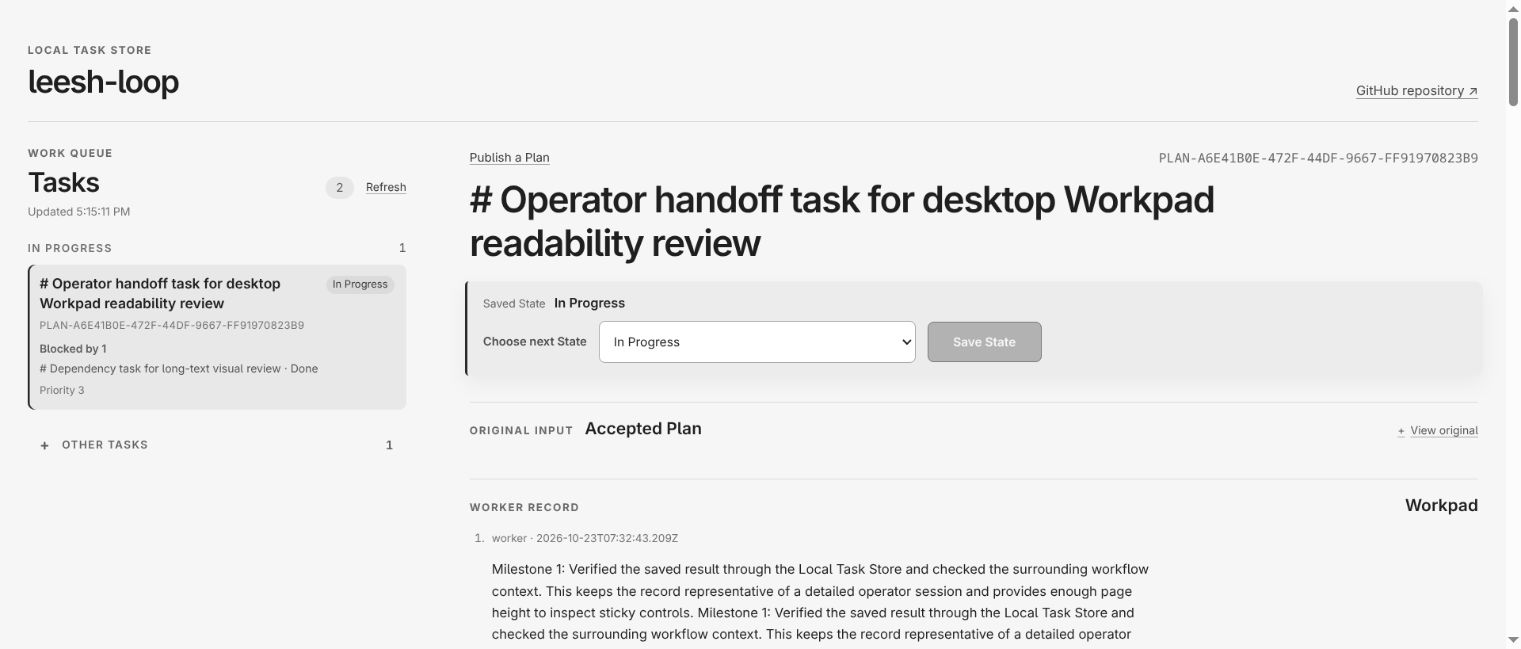
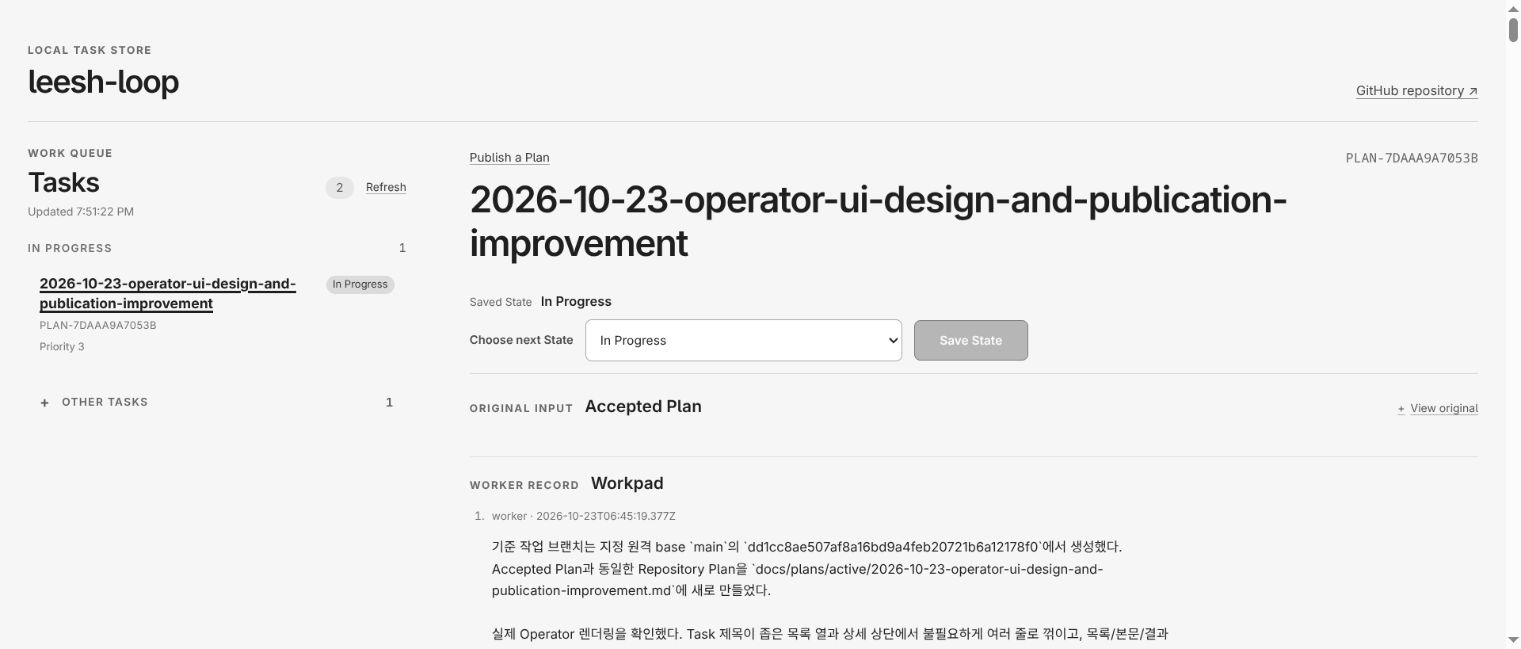
Refine selected task row styling and evidence

diff --git a/operator/ui/src/style.css b/operator/ui/src/style.css
@@ -44,11 +44,14 @@ h3 { margin-bottom: 0; font-size: 1rem; line-height: 1.35; font-weight: 650; }
 .task-group-heading { display: flex; align-items: baseline; justify-content: space-between; gap: 1rem; margin-bottom: .42rem; }
 .task-group-heading h3 { min-width: 0; color: #727272; overflow-wrap: anywhere; font-size: .68rem; letter-spacing: .11em; text-transform: uppercase; }
 .task-group-count { min-width: 1.5rem; text-align: right; }
-.task-row { padding: .68rem .75rem .7rem; border-radius: .45rem; transition: background-color 120ms ease; }
-.task-row:hover { background: #eeeeee; }
-.task-row.selected { background: #e4e4e4; }
+.task-row { padding: .68rem .75rem .7rem; }
+.task-row:hover, .task-row.selected { background: transparent; }
 .task-open { display: flex; width: 100%; align-items: flex-start; justify-content: space-between; gap: .7rem; padding: 0; border: 0; background: transparent; text-align: left; }
 .task-open-title { min-width: 0; font-size: .88rem; line-height: 1.42; font-weight: 600; overflow-wrap: anywhere; }
+.task-open:hover .task-open-title { text-decoration: underline; text-decoration-color: #888; text-decoration-thickness: 1px; text-underline-offset: .18em; }
+.task-row.selected .task-open-title { font-weight: 700; text-decoration: underline; text-decoration-color: #777; text-decoration-thickness: 1px; text-underline-offset: .18em; }
+.task-open:focus-visible { outline: none; }
+.task-open:focus-visible .task-open-title { text-decoration-color: #191919; text-decoration-thickness: 2px; }
 .task-open-state { flex: 0 0 auto; margin-top: .04rem; padding: .14rem .42rem; border-radius: 999px; background: #dcdcdc; color: #353535; font-size: .65rem; line-height: 1.35; text-align: right; white-space: nowrap; }
 .task-identifier { margin: .26rem 0 0; color: #757575; font-size: .65rem; letter-spacing: .035em; overflow-wrap: anywhere; }
 .task-blockers { display: grid; justify-items: start; gap: .2rem; margin: .48rem 0 0; color: #535353; font-size: .7rem; line-height: 1.45; overflow-wrap: anywhere; }

diff --git a/docs/ui-evidence/README.md b/docs/ui-evidence/README.md
@@ -1,0 +1,15 @@
+# Operator UI evidence
+
+## Current selected-task treatment
+
+The 2026-10-23 selection-style update is shown in these desktop captures:
+
+- `task-detail-desktop.png` and `task-detail-desktop-reviewed.jpg` show the selected Task with a bold, underlined title, no gray row surface, and no left accent stripe.
+- `task-detail-desktop-heading-reviewed.jpg` records the current detail hierarchy alongside the updated selection treatment.
+- `task-detail-desktop-keyboard-focus-reviewed.jpg` shows the same selected Task while its row has keyboard focus. Focus is indicated by the title underline; the row remains transparent and has no left stripe.
+
+The captures were taken from the current checkout build against the read-only Local Task Store API at 1521×649. `task-detail-desktop.png` is a PNG conversion of the browser capture so the established evidence path now reflects the current result.
+
+## Historical captures
+
+`01-task-list-backlog.jpg`, `03-task-detail-plan-workpad-comment.jpg`, `04-human-review-input-state.jpg`, `05-mobile-task-navigation-detail.jpg`, `task-detail-mobile.png`, and the older `operator-ui-*` captures predate the 2026-10-23 selected-row update. They remain as historical layout and content examples; do not use them to judge the current selected-row treatment. The mobile screenshot has not been recaptured for this final CSS adjustment, so narrow-screen rendering of this specific selected state remains unverified in a fresh screenshot.
